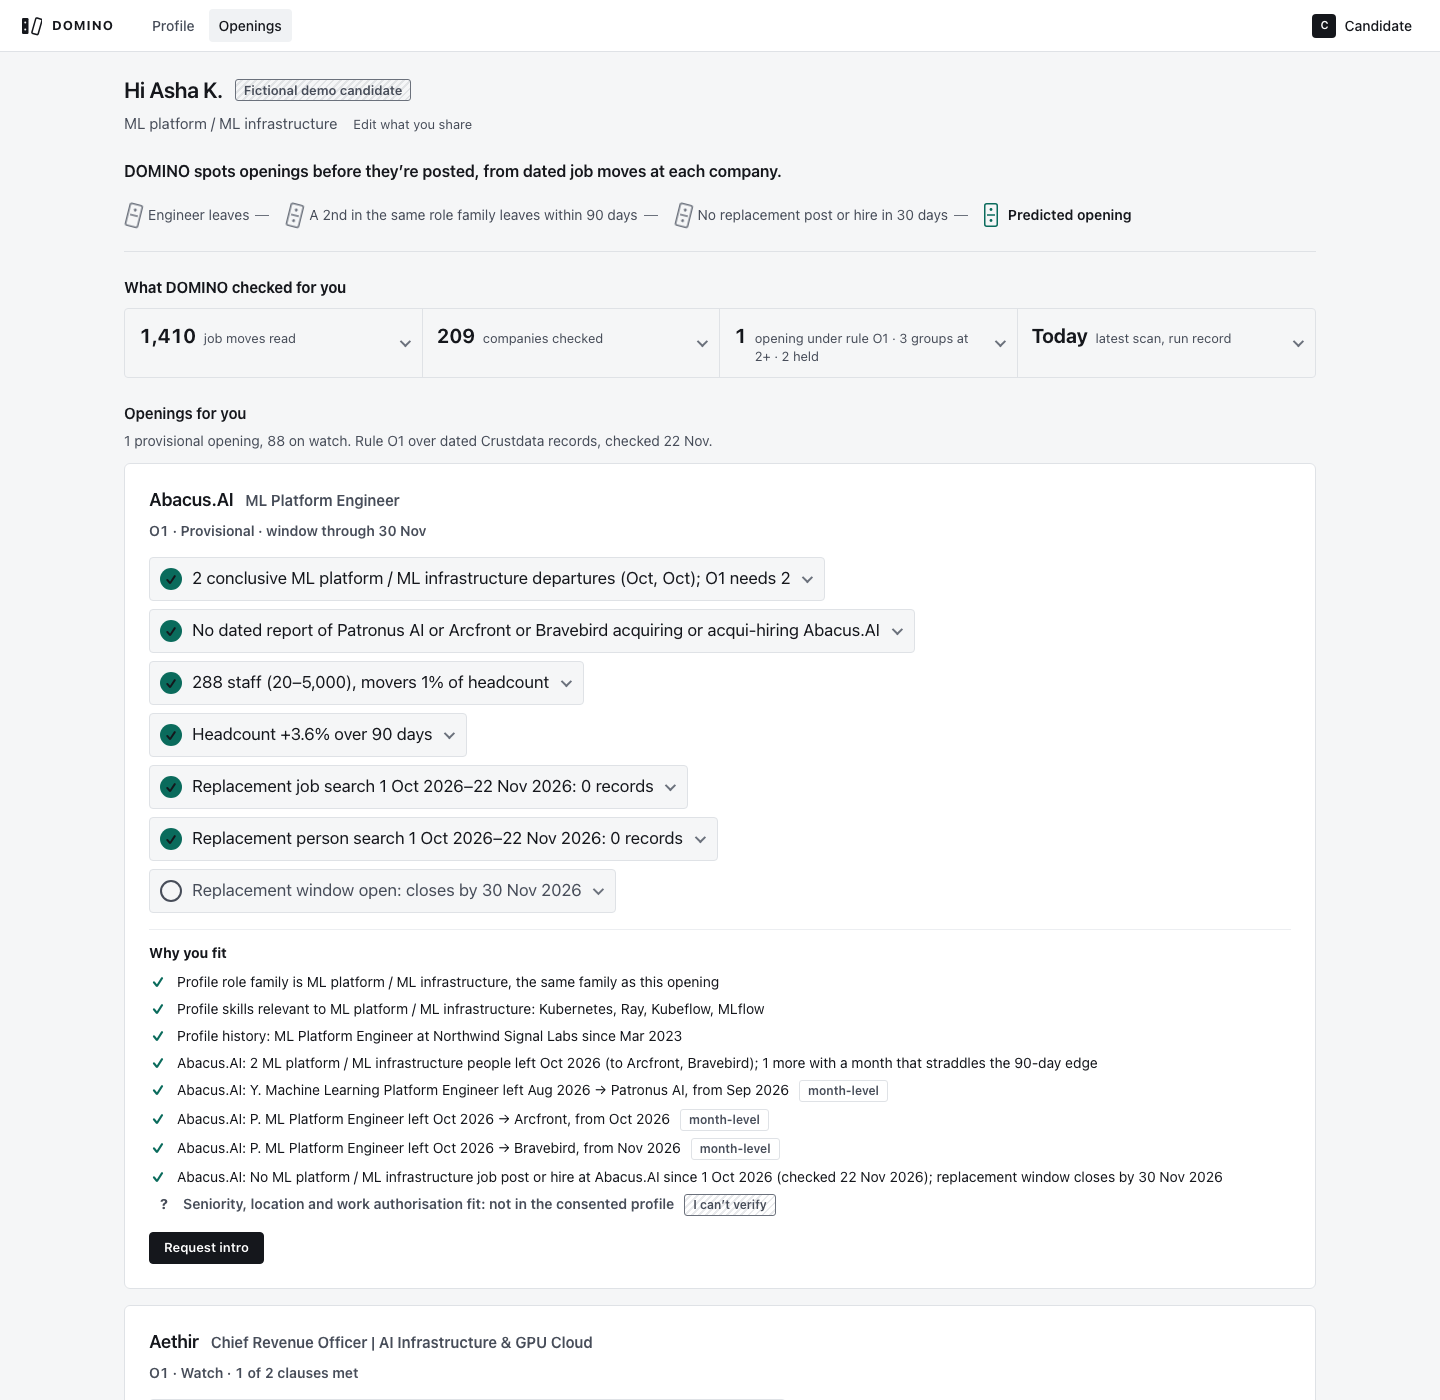
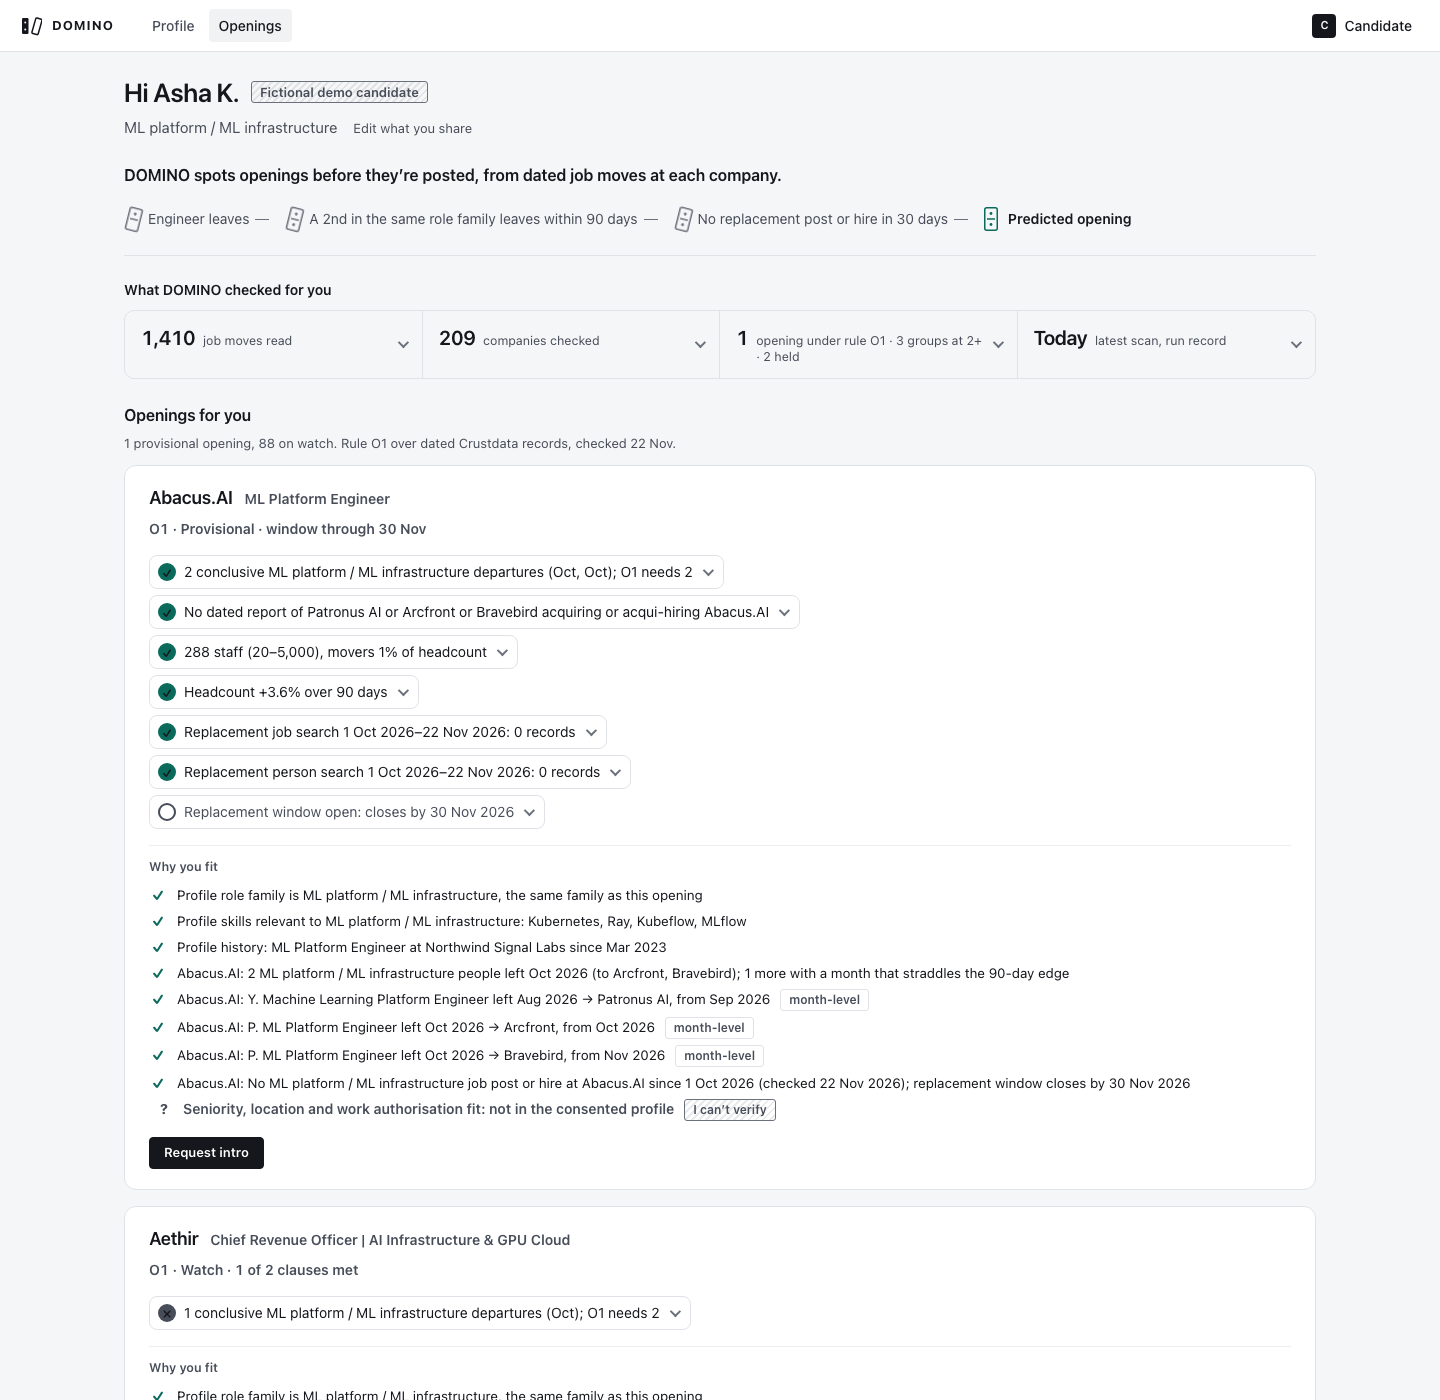
web2 candidate dashboard: tool-grade hierarchy per Garud's 17:05 direction
Strict type steps (26 / 16 / 18 / 14 / 12.5), semibold with tight tracking, 34px clause chips at 8px radius,
12px opening cards, 10px grid containers, compact hover rows, reduced-motion guard.

diff --git a/web2/src/features/dashboard/dashboard.css b/web2/src/features/dashboard/dashboard.css
@@ -19,7 +19,7 @@
 
 /* ---------------------------------------------------------------- opening card */
 .op-list { display: grid; gap: var(--s4); }
-.op { padding: var(--s5); display: grid; gap: var(--s4); }
+.op { padding: 20px 24px; display: grid; gap: var(--s4); border-radius: 12px; }
 .op-head { display: grid; gap: var(--s2); }
 .op-title { display: flex; align-items: baseline; gap: 4px var(--s3); flex-wrap: wrap; }
 .op-co { margin: 0; font-size: 34px; line-height: 1.05; font-weight: 800; font-variation-settings: 'wdth' 125; }
@@ -28,16 +28,16 @@
 .op-rule.provisional, .op-rule.watch { color: var(--warn); }
 .op-rule.held { color: var(--warn); }
 
-.clauses { list-style: none; margin: 0; padding: 0; display: flex; flex-wrap: wrap; gap: var(--s2); }
+.clauses { list-style: none; margin: 0; padding: 0; display: flex; flex-wrap: wrap; gap: 6px; }
 .clause {
-  display: inline-flex; align-items: center; gap: 10px; min-height: 44px; padding: 8px 14px 8px 10px; border-radius: var(--r);
-  border: 1px solid var(--line); background: var(--bg); color: var(--paper); font-size: 17px; text-align: left;
+  display: inline-flex; align-items: center; gap: 8px; min-height: 34px; padding: 5px 12px 5px 8px; border-radius: 8px;
+  border: 1px solid var(--line); background: var(--surface); color: var(--paper); font-size: 14px; line-height: 20px; text-align: left;
   transition: border-color 160ms ease-out, background-color 160ms ease-out;
 }
 .clause:hover { border-color: var(--paper-3); }
 .clause[aria-expanded='true'] { border-color: var(--live); background: var(--live-wash); }
 .clause-mark {
-  width: 22px; height: 22px; border-radius: 50%; flex: none; display: grid; place-items: center; font-size: 13px; font-weight: 800; line-height: 1;
+  width: 18px; height: 18px; border-radius: 50%; flex: none; display: grid; place-items: center; font-size: 11px; font-weight: 700; line-height: 1;
 }
 .clause.s-met .clause-mark { background: var(--ok); color: var(--ink); }
 .clause.s-open .clause-mark { border: 2px solid var(--warn); }
@@ -211,3 +211,25 @@
 .op.compact .op-rule { font-size: 15px; }
 .op.compact .clause { font-size: 14px; min-height: 36px; padding: 6px 12px 6px 8px; }
 .wl-row > .btn.sm { justify-self: start; }
+
+/* ---------------------------------------------------------------- tool-grade hierarchy (Garud 17:05)
+   Few sizes in strict steps: page title 26 / section 16 / card title 18 / body 14 / labels 12.5. Semibold, tight tracking,
+   hairline borders, 8px controls, 12px cards, compact 36-40px rows. Scoped under .dash so it outranks the shared side rules. */
+.side-candidate .dash .dash-name { font-size: 26px; line-height: 32px; letter-spacing: -0.02em; font-weight: 600; }
+.side-candidate .dash .dash-h2 { font-size: 16px; line-height: 24px; letter-spacing: -0.01em; font-weight: 600; }
+.dash .dash-h3 { font-size: 14px; line-height: 20px; font-weight: 600; letter-spacing: -0.005em; }
+.dash .dash-topline, .dash .sub-lead { font-size: 13px; line-height: 20px; color: var(--paper-2); }
+.dash .dash-sec { gap: 12px; }
+.side-candidate .dash .op-co { letter-spacing: -0.015em; }
+.dash .op-role { font-size: 14px; }
+.dash .fit-h { font-size: 12.5px; font-weight: 600; color: var(--paper-2); }
+.dash .fit-list li { font-size: 13.5px; line-height: 20px; }
+.dash .chk { padding: 12px 16px; }
+.dash .chk b { font-size: 20px; font-weight: 600; letter-spacing: -0.02em; }
+.dash .chk span { font-size: 12.5px; }
+.dash .checked, .dash .wl, .dash .chk-records { border-radius: 10px; }
+.dash .wl-row { padding: 10px 16px; transition: background-color 150ms ease-out; }
+.dash .wl-row:hover { background: var(--row-hover); }
+.dash .wl-co { font-size: 14px; font-weight: 600; }
+.dash .wl-meta { font-size: 12.5px; }
+@media (prefers-reduced-motion: reduce) { .dash .wl-row, .chk-grid tbody tr, .chk-rows > li { transition: none; } }
